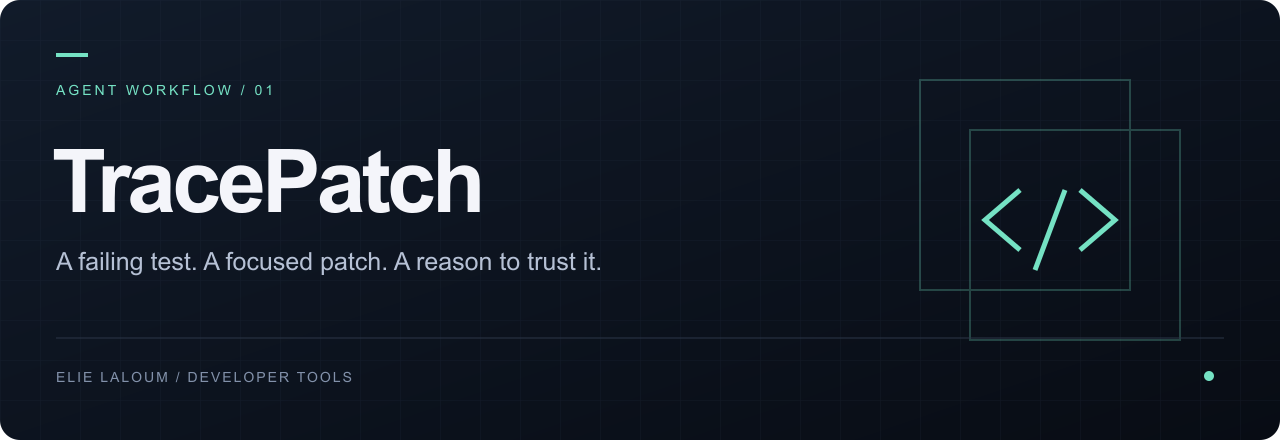
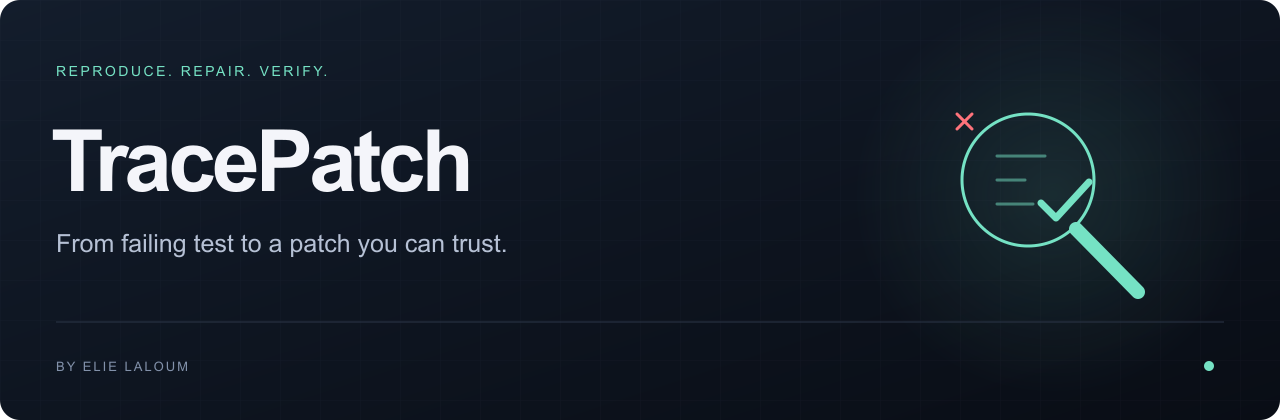
Give the project a distinct visual identity and a recorded demo

diff --git a/README.fr.md b/README.fr.md
@@ -5,6 +5,14 @@
 
 **Donnez à un agent un échec reproduit et un périmètre de code précis. Récupérez un patch accompagné des vérifications réellement exécutées.**
 
+## Voir la démo
+
+<a href="assets/demo.mp4"><img src="assets/demo.gif" alt="TracePatch — démonstration enregistrée" width="100%"></a>
+
+<sub>Démo réellement exécutée, rejouée avec des annotations et un rythme adapté à la lecture. Adaptateur déterministe ; Git et les vérifications s’exécutent réellement.</sub>
+
+[Vidéo MP4](assets/demo.mp4) · [Reproduire la démo](docs/demo.md)
+
 ## Essayer la version 0.1
 
 ```sh

diff --git a/docs/demo.md b/docs/demo.md
@@ -1,0 +1,11 @@
+# Reproduce the demo
+
+Follow the prerequisites and installation steps in the [README](../README.md), then run:
+
+```sh
+npm run demo
+```
+
+The GIF and MP4 replay output from this executable demo. Presentation timing and layout are edited for readability. The recorded observations are in [demo-evidence.json](../assets/demo-evidence.json). Temporary machine paths are omitted.
+
+The adapter is deterministic. Git, dependency installation where applicable, and test commands run for real. This demonstrates workflow mechanics, not live model repair quality.

diff --git a/README.md b/README.md
@@ -7,6 +7,14 @@
 
 Node.js 22+ · Git · Adapter protocol · [Quick start](#quick-start) · [How it works](#how-it-works) · [Boundaries](#boundaries)
 
+## See it in action
+
+<a href="assets/demo.mp4"><img src="assets/demo.gif" alt="TracePatch — recorded demonstration" width="100%"></a>
+
+<sub>Replay of a real demo run, with explanatory annotations and timing edited for readability. Deterministic adapter; Git and the checks execute for real.</sub>
+
+[Watch the MP4](assets/demo.mp4) · [Reproduce this demo](docs/demo.md)
+
 ## Why it exists
 
 ### Reproduce first
